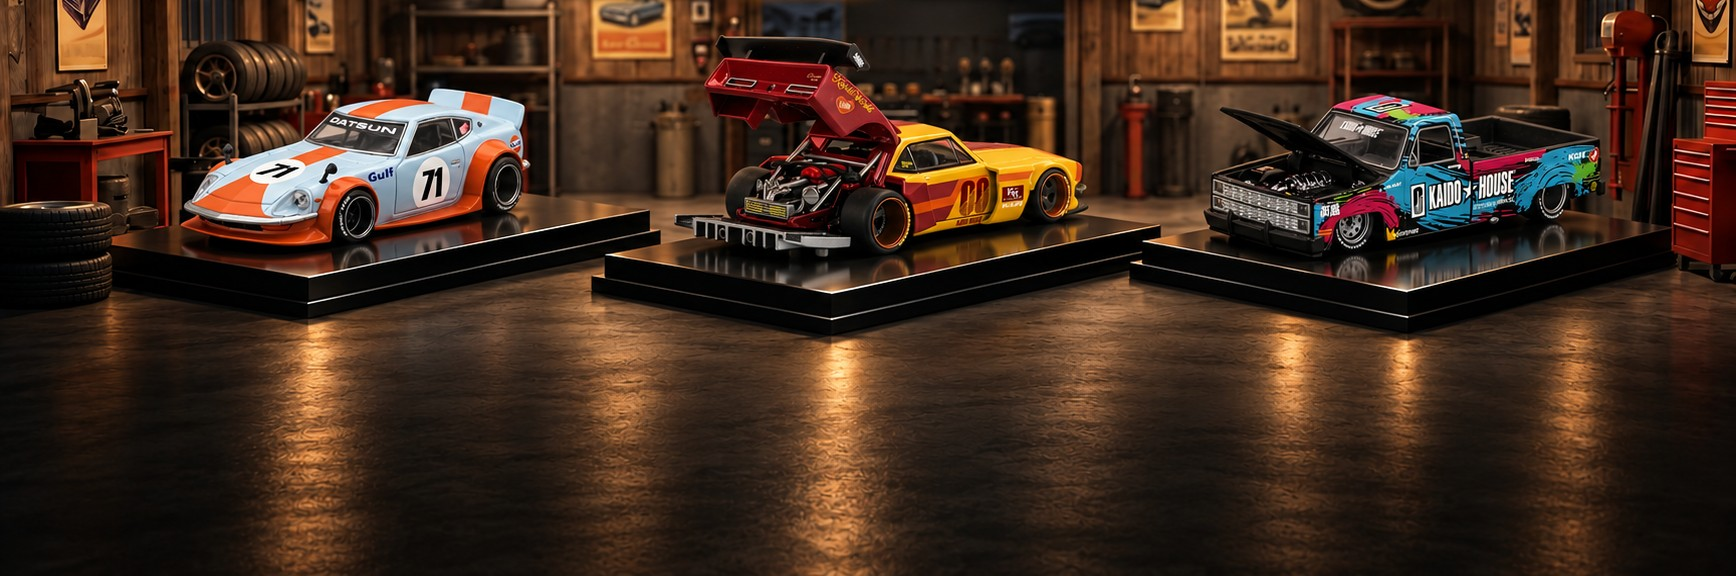
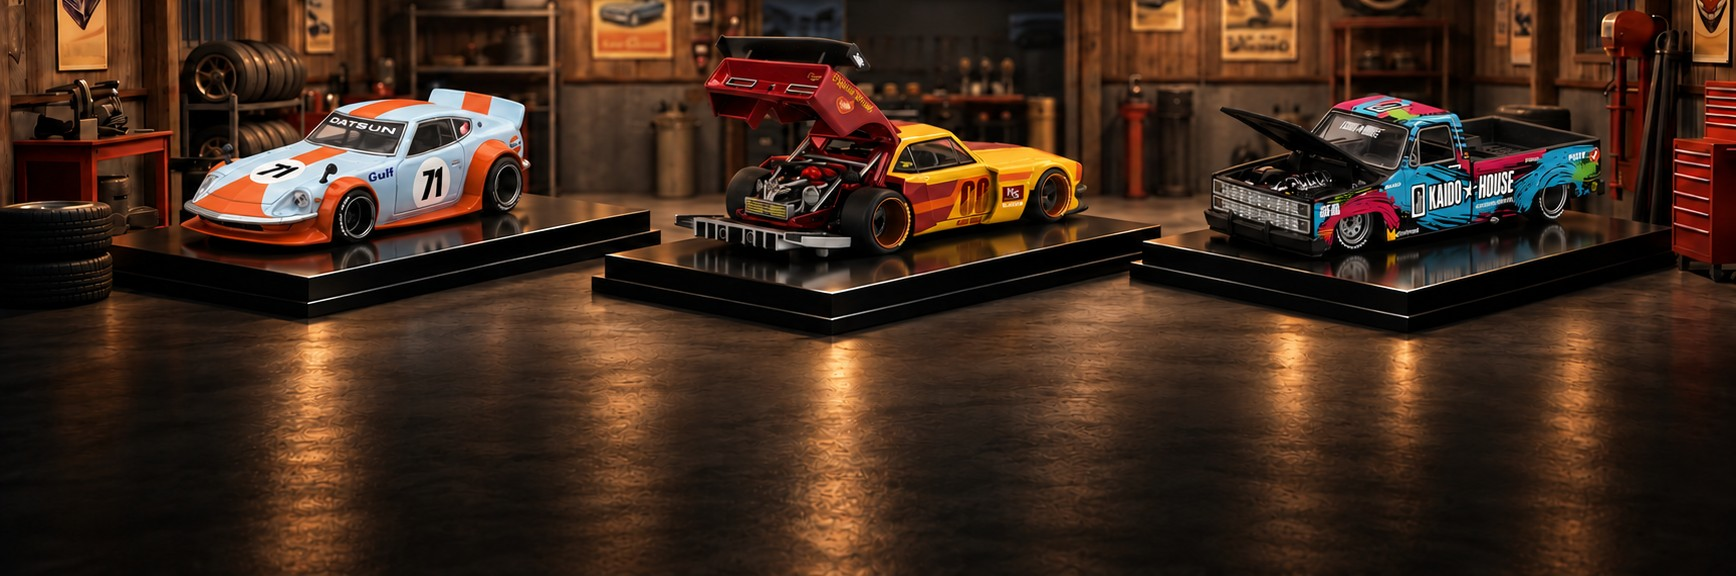
Adiciona as artes prontas das 4 marcas no hero de pedestais
Kaido House, Mini GT, Pop Race e Tarmac Works agora têm cada uma sua
imagem pronta (3 miniaturas já compostas na cena da garagem, sombra e luz
combinando) — o pill de marca troca qual imagem aparece, sem precisar
mais do piso vazio como placeholder.

Claude-Session: https://claude.ai/code/session_016mKbJE62WZw29HZ7XgjBti

diff --git a/src/components/preVendas/BrandPedestalHero.tsx b/src/components/preVendas/BrandPedestalHero.tsx
@@ -5,6 +5,9 @@ import { cn } from "@/lib/utils";
 import { BRAND_SLUGS, PreOrder, SingleBrand } from "@/data/preVendas";
 import emptyPedestals from "@/assets/prevendas-garage-pedestals.jpg";
 import heroKaidoHouse from "@/assets/prevendas-hero-kaido-house.jpg";
+import heroMiniGt from "@/assets/prevendas-hero-mini-gt.jpg";
+import heroPopRace from "@/assets/prevendas-hero-pop-race.jpg";
+import heroTarmacWorks from "@/assets/prevendas-hero-tarmac-works.jpg";
 
 const BRAND_ORDER: SingleBrand[] = ["Mini GT", "Pop Race", "Tarmac Works", "Kaido House"];
 
@@ -12,6 +15,9 @@ const BRAND_ORDER: SingleBrand[] = ["Mini GT", "Pop Race", "Tarmac Works", "Kaid
 // coladas nos pedestais (arte gerada/tratada fora do site, com sombra e luz batendo
 // com a cena). Sem imagem pronta pra marca, cai no piso vazio como placeholder.
 const BRAND_HERO_IMAGES: Partial<Record<SingleBrand, string>> = {
+  "Mini GT": heroMiniGt,
+  "Pop Race": heroPopRace,
+  "Tarmac Works": heroTarmacWorks,
   "Kaido House": heroKaidoHouse,
 };
 
